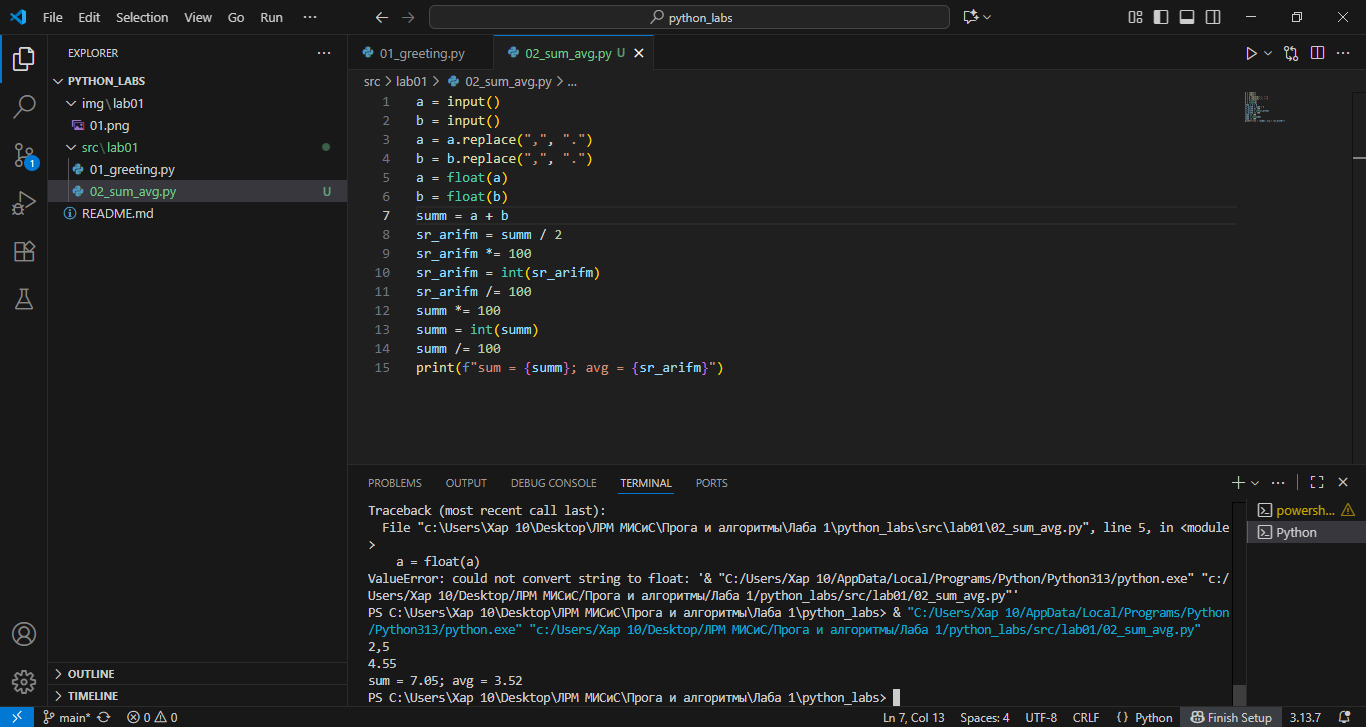
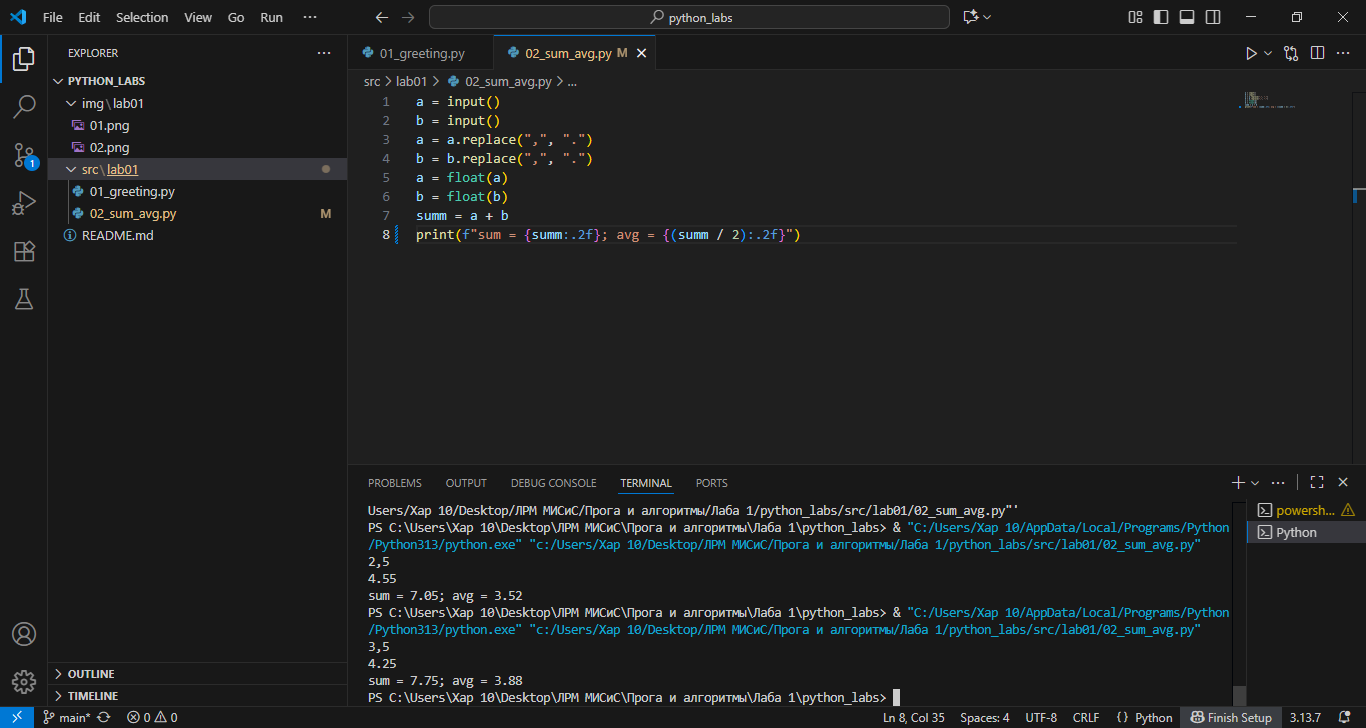
02

diff --git a/src/lab01/02_sum_avg.py b/src/lab01/02_sum_avg.py
@@ -5,11 +5,4 @@ b = b.replace(",", ".")
 a = float(a)
 b = float(b)
 summ = a + b
-sr_arifm = summ / 2
-sr_arifm *= 100
-sr_arifm = int(sr_arifm)
-sr_arifm /= 100
-summ *= 100
-summ = int(summ)
-summ /= 100
-print(f"sum = {summ}; avg = {sr_arifm}")
+print(f"sum = {summ:.2f}; avg = {(summ / 2):.2f}")
